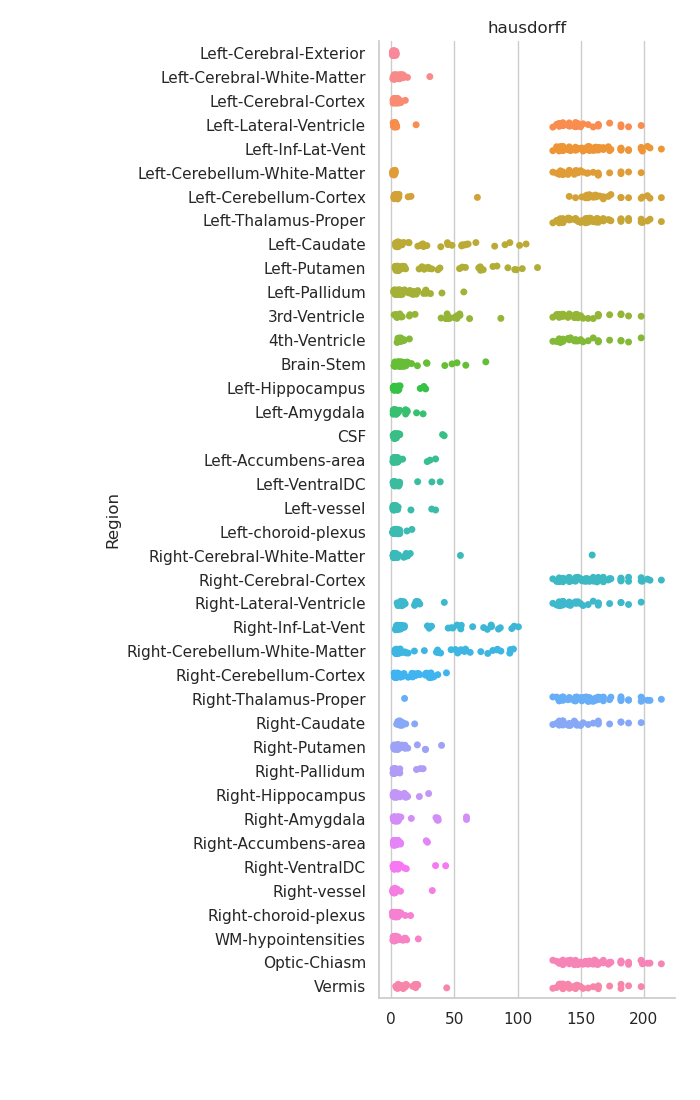
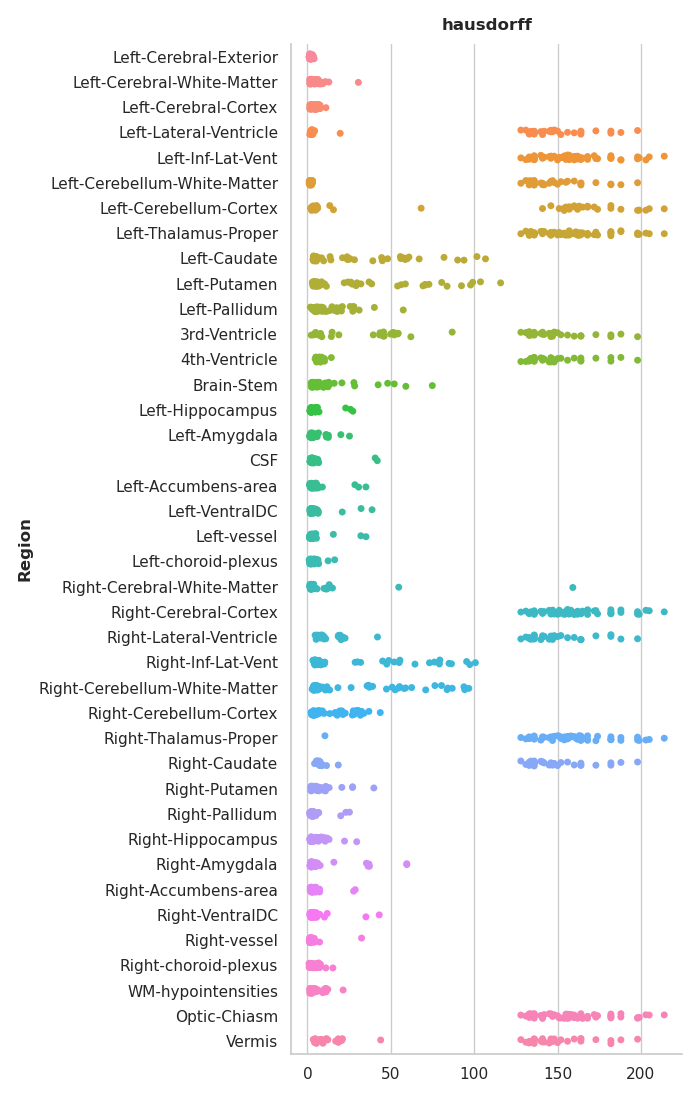
Set Matplotlib defaults

diff --git a/SynthSeg/dcan/paper/create_plots.py b/SynthSeg/dcan/paper/create_plots.py
@@ -42,6 +42,12 @@ def create_cat_plots(results_dir, measures):
         create_figure(measure, 'catplot')
 
 if __name__ == "__main__":
+    # Set Matplotlib defaults
+    plt.rc('figure', autolayout=True)
+    plt.rc('axes', labelweight='bold', labelsize='large',
+           titleweight='bold', titlesize=18, titlepad=10)
+    plt.rc('image', cmap='magma')
+
     results_folder = '/home/miran045/reine097/projects/SynthSeg/data/dcan/paper/measure_tables'
     msrs = ['dice', 'hausdorff', 'hausdorff_95', 'hausdorff_99', 'mean_distance']
     create_box_plots(results_folder, msrs)
